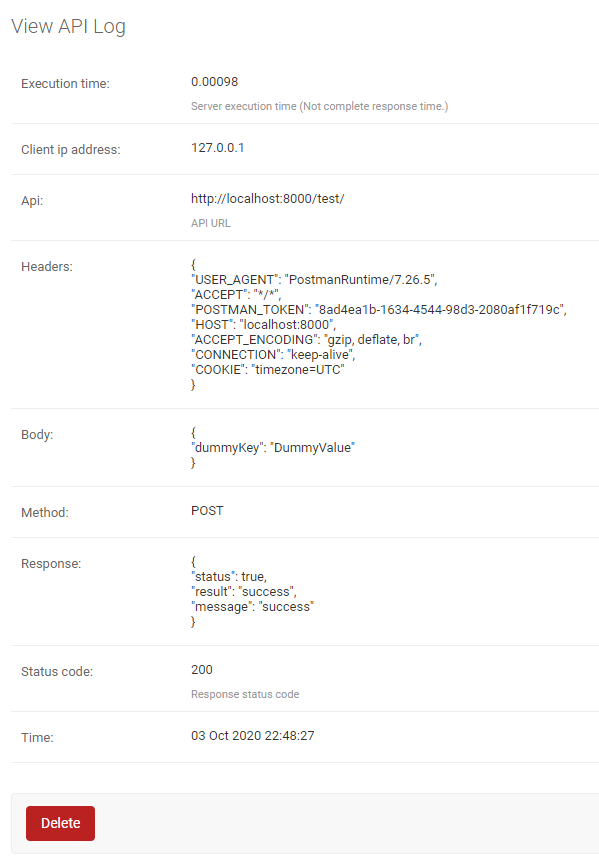
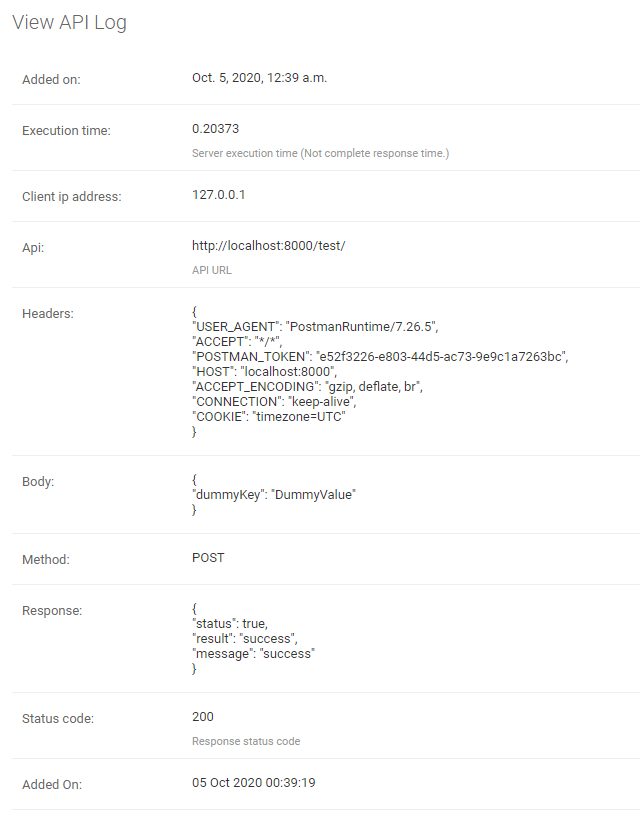
Timezone aware "added_on" added in signals too.

diff --git a/drf_api_logger/middleware/api_logger_middleware.py b/drf_api_logger/middleware/api_logger_middleware.py
@@ -3,6 +3,7 @@ import time
 import bleach
 from django.conf import settings
 from django.urls import resolve
+from django.utils import timezone
 
 from drf_api_logger import API_LOGGER_SIGNAL
 from drf_api_logger.start_logger_when_server_starts import LOGGER_THREAD
@@ -96,7 +97,8 @@ class APILoggerMiddleware:
                 client_ip_address=get_client_ip(request),
                 response=response_body,
                 status_code=response.status_code,
-                execution_time=time.time() - start_time
+                execution_time=time.time() - start_time,
+                added_on=timezone.now()
             )
             if self.DRF_API_LOGGER_DATABASE:
                 if LOGGER_THREAD:

diff --git a/drf_api_logger/admin.py b/drf_api_logger/admin.py
@@ -12,7 +12,7 @@ if database_log_enabled():
             return obj.added_on.strftime("%d %b %Y %H:%M:%S")
 
         added_on_time.admin_order_field = 'added_on'
-        added_on_time.short_description = 'Time'
+        added_on_time.short_description = 'Added On'
 
         list_per_page = 20
         list_display = ('id', 'api', 'method', 'status_code', 'execution_time', 'added_on_time',)

diff --git a/drf_api_logger/models.py b/drf_api_logger/models.py
@@ -9,8 +9,7 @@ if database_log_enabled():
     class BaseModel(models.Model):
         id = models.BigAutoField(primary_key=True)
 
-        # Auto add timestamp when created
-        added_on = models.DateTimeField(null=True, auto_now_add=True)
+        added_on = models.DateTimeField()
 
         def __str__(self):
             return str(self.id)

diff --git a/setup.py b/setup.py
@@ -9,7 +9,7 @@ def get_long_desc():
 
 setuptools.setup(
     name="drf_api_logger",
-    version="0.0.3",
+    version="0.0.4",
     author="Vishal Anand",
     author_email="vishalanandl177@gmail.com",
     description="An API Logger for your Django Rest Framework project.",

diff --git a/README.md b/README.md
@@ -1,5 +1,5 @@
 # DRF API Logger
-![version](https://img.shields.io/badge/version-0.0.3-blue.svg)
+![version](https://img.shields.io/badge/version-0.0.4-blue.svg)
 
 An API Logger for your Django Rest Framework project.
 
@@ -63,13 +63,17 @@ Log every request into the database.
 ```python
 DRF_API_LOGGER_DATABASE = True  # Default to False
 ```
-Logs will be available in Django Admin Panel.
+* Logs will be available in Django Admin Panel.
+
+* The search bar will search in Request Body, Response, Headers and API URL.
+
+* You can also filter the logs based on the "added_on" date, Status Code and Request Methods.
 
 ![Alt text](https://raw.githubusercontent.com/vishalanandl177/DRF-API-Logger/master/logs.png?raw=true, "Logger")
 
 ![Alt text](https://raw.githubusercontent.com/vishalanandl177/DRF-API-Logger/master/lists.png?raw=true, "Lists")
 
-![Alt text](https://raw.githubusercontent.com/vishalanandl177/DRF-API-Logger/master/details.png?raw=true, "Detais")
+![Alt text](https://raw.githubusercontent.com/vishalanandl177/DRF-API-Logger/master/details.png?raw=true, "Details")
 
 Note: Make sure to migrate. It will create a table for logger if "DRF_API_LOGGER_DATABASE" is True else if already exists, it will delete the table.
 
@@ -126,6 +130,7 @@ Specify interval (In Seconds).
 ```python
 DRF_LOGGER_INTERVAL = 10  # In Seconds, Default to 10 seconds if not specified.
 ```
+Note: The API call time (added_on) is timezone aware datetime object. It is actual time of API call irrespective of interval value or queue size.
 ### Skip namespace
 You can skip the entire app to be logged into the database by specifying namespace of the app as list.
 ```python
